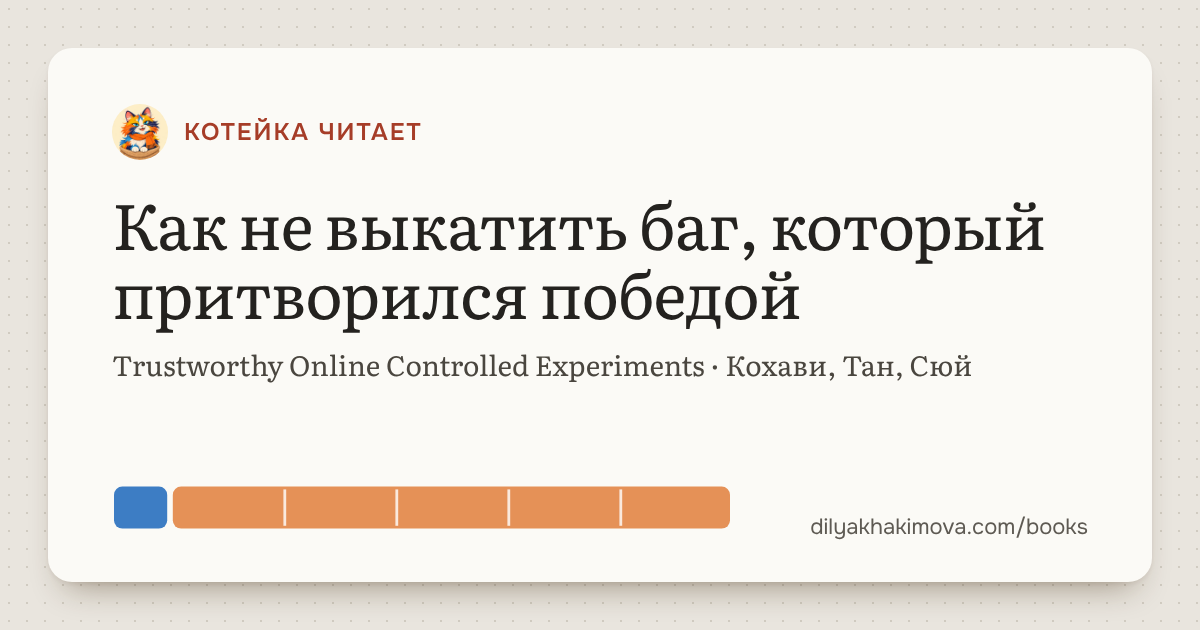
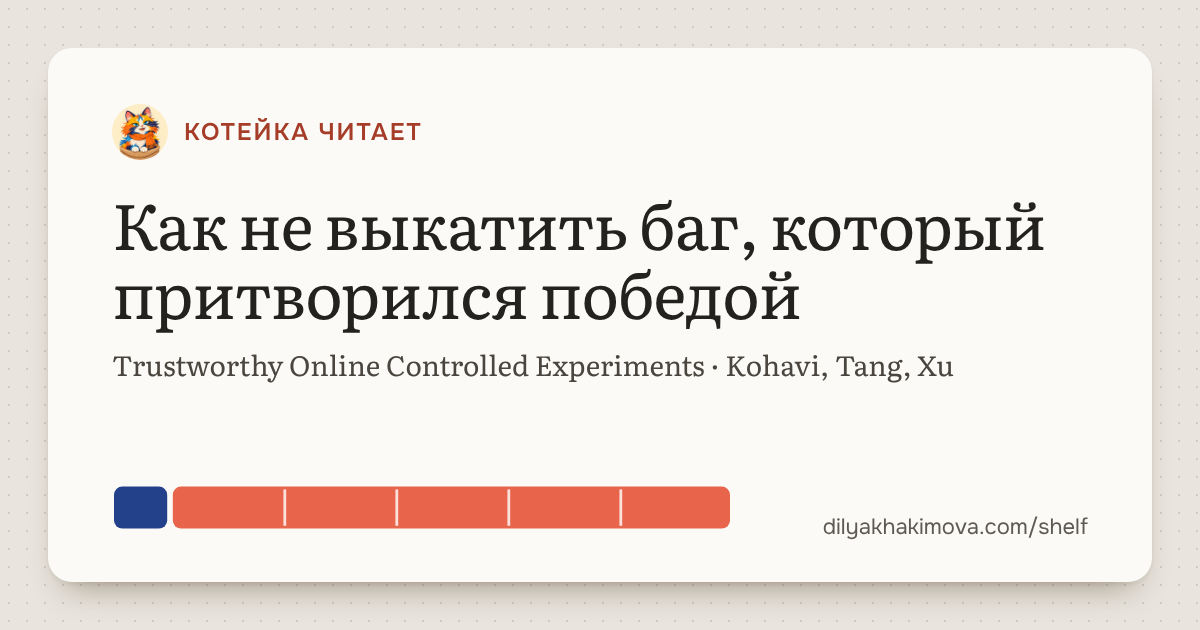
Shelf/Kohavi: drop «Котейка читает» label, English authors with English title, facts list (для кого, уровень, книга, язык, перевод, разбор)
Claude-Session: https://claude.ai/code/session_016bVaCQyfwyCtB86fKvsZ4q

Changed region(s): [[0.0925, 0.754, 0.6167, 0.8444], [0.6783, 0.8143, 0.925, 0.8746], [0.6167, 0.573, 0.8325, 0.6032]]

diff --git a/shelf/kohavi-trustworthy/index.html b/shelf/kohavi-trustworthy/index.html
@@ -5,15 +5,15 @@
 <meta name="viewport" content="width=device-width, initial-scale=1">
 <!-- Рубрика «Котейка читает». Тексты — в i18n/site.js (шапка, футер) и i18n/books.js. Русский текст вписан командой node tools/bake-i18n.js: правьте словари, а не разметку.
      Код ячеек Python — прямо здесь (textarea): из них же собирается ноутбук shelf/notebooks/kohavi-trustworthy.ipynb (python3 tools/build-book-notebook.py). -->
-<title data-i18n="bk.meta.title">Trustworthy Online Controlled Experiments — краткое содержание книги по A/B-тестам · Котейка читает</title>
-<meta name="description" data-i18n-attr="content:bk.meta.desc" content="Краткое содержание книги Кохави, Тан и Сюй «Trustworthy Online Controlled Experiments»: пять главных идей для аналитика — закон Твимена, SRM, подглядывание, A/A-тесты — с живыми играми, кодом на Python и ноутбуком. С какой главы начать.">
+<title data-i18n="bk.meta.title">Trustworthy Online Controlled Experiments — краткое содержание книги по A/B-тестам</title>
+<meta name="description" data-i18n-attr="content:bk.meta.desc" content="Краткое содержание книги «Trustworthy Online Controlled Experiments», Ron Kohavi, Diane Tang, Ya Xu: пять главных идей для аналитика — закон Твимена, SRM, подглядывание, A/A-тесты — с живыми играми, кодом на Python и ноутбуком. С какой главы начать.">
 <link rel="canonical" href="https://dilyakhakimova.com/shelf/kohavi-trustworthy/">
 <meta property="og:type" content="article">
 <meta property="og:locale" content="ru_RU">
 <meta property="og:site_name" content="Диля Хакимова">
 <meta property="og:url" content="https://dilyakhakimova.com/shelf/kohavi-trustworthy/">
-<meta property="og:title" data-i18n-attr="content:bk.meta.title" content="Trustworthy Online Controlled Experiments — краткое содержание книги по A/B-тестам · Котейка читает">
-<meta property="og:description" data-i18n-attr="content:bk.meta.desc" content="Краткое содержание книги Кохави, Тан и Сюй «Trustworthy Online Controlled Experiments»: пять главных идей для аналитика — закон Твимена, SRM, подглядывание, A/A-тесты — с живыми играми, кодом на Python и ноутбуком. С какой главы начать.">
+<meta property="og:title" data-i18n-attr="content:bk.meta.title" content="Trustworthy Online Controlled Experiments — краткое содержание книги по A/B-тестам">
+<meta property="og:description" data-i18n-attr="content:bk.meta.desc" content="Краткое содержание книги «Trustworthy Online Controlled Experiments», Ron Kohavi, Diane Tang, Ya Xu: пять главных идей для аналитика — закон Твимена, SRM, подглядывание, A/A-тесты — с живыми играми, кодом на Python и ноутбуком. С какой главы начать.">
 <meta property="og:image" content="https://dilyakhakimova.com/shelf/og/kohavi-trustworthy.png">
 <meta property="og:image:width" content="1200">
 <meta property="og:image:height" content="630">
@@ -49,17 +49,22 @@ function artFail(img){ img.closest('.art').classList.add('missing'); }
 <script>(function(){var h=document.currentScript.previousElementSibling,b=h.querySelector('.burger');b.addEventListener('click',function(){var o=h.classList.toggle('open');b.setAttribute('aria-expanded',o)})})()</script>
 <script>(function(){var a=document.querySelector('header.top .me');if(!a)return;var m=null;try{m=JSON.parse(localStorage.getItem('dk:me')||'null')}catch(e){}if(!m)return;a.setAttribute('aria-label','Мой кабинет');a.classList.add('in');var i=a.querySelector('.me-i');if(!i)return;if(m.name){i.className='me-l';i.textContent=m.name.trim().charAt(0).toUpperCase()}var s=m.photo||(/^(cat|dog)-\d+$/.test(m.avatar||'')?'/img/avatars/'+m.avatar+'.webp':'');if(s){var g=new Image();g.alt='';g.src=s;g.onload=function(){i.replaceWith(g)}}})()</script>
 
-<main id="main" class="wrap bk" data-share-title="Trustworthy Online Controlled Experiments · Котейка читает"
+<main id="main" class="wrap bk" data-share-title="Trustworthy Online Controlled Experiments"
   data-i18n-attr="data-share-text:bk.share.text;data-s-copied:bk.copied" data-share-text="Скинь коллеге, который запускает A/B-тесты: пять мыслей, на чтение — десять минут." data-s-copied="Ссылка скопирована">
 
 <!-- метка → заголовок-обещание → паспорт → реплика Котейки; справа — своя иллюстрация вместо обложки -->
 <section class="bk-hero">
   <div>
-    <p class="eyebrow bk-label"><img class="ava" src="/ab-basics/img/ava-kot.jpg" alt="" width="32" height="32"><span data-i18n="bk.rubric">Котейка читает</span></p>
     <h1 data-i18n="bk.h1">Как не выкатить баг, который притворился победой</h1>
-    <p class="bk-pass" data-i18n="bk.pass.book"><cite lang="en">Trustworthy Online Controlled Experiments</cite> · Рон Кохави, Диана Тан, Я Сюй · 2020</p>
-    <p class="bk-ru" data-i18n="bk.pass.ru">На русском: «Доверительное A/B-тестирование»</p>
-    <p class="bk-pass2"><span data-i18n="bk.pass.who">Для аналитиков и продактов, которые запускают A/B-тесты</span><span class="chip"><span class="lvl l2" aria-hidden="true"></span><span class="vh" data-i18n="lvl.word">Уровень</span><span data-i18n="lvl.2">Средний</span></span><span data-i18n="bk.pass.read">около 290 страниц, на английском · разбор — 10 минут</span></p>
+    <p class="bk-pass" data-i18n="bk.pass.book"><cite lang="en">Trustworthy Online Controlled Experiments</cite> · Ron Kohavi, Diane Tang, Ya Xu · 2020</p>
+    <dl class="bk-facts">
+      <div><dt data-i18n="bk.f.who">Для кого</dt><dd data-i18n="bk.pass.who">аналитики и продакты, которые запускают A/B‑тесты</dd></div>
+      <div><dt data-i18n="bk.f.lvl">Уровень</dt><dd class="bk-lvl"><span class="lvl l2" aria-hidden="true"></span><span data-i18n="lvl.2">Средний</span></dd></div>
+      <div><dt data-i18n="bk.f.book">Книга</dt><dd data-i18n="bk.pass.read">около 290 страниц</dd></div>
+      <div><dt data-i18n="bk.f.lang">Язык</dt><dd data-i18n="bk.pass.lang">английский</dd></div>
+      <div><dt data-i18n="bk.f.ru">Перевод</dt><dd data-i18n="bk.pass.ru">«Доверительное A/B‑тестирование»</dd></div>
+      <div><dt data-i18n="bk.f.time">Разбор</dt><dd data-i18n="bk.pass.time">10 минут</dd></div>
+    </dl>
     <div class="msg kot"><img class="ava" src="/ab-basics/img/ava-kot.jpg" alt="" width="44" height="44"><div class="bubble"><div class="who" data-i18n="bk.kot.who">Котейка</div><p class="say" data-i18n="bk.kot.say">Прочитал за тебя почти 300 страниц. Вот пять мыслей, которые пригодятся в понедельник, когда откроешь отчёт.</p></div></div>
   </div>
   <figure class="art r43 drawn"><img src="/shelf/img/kohavi-main.jpg" width="1600" height="1200" data-i18n-attr="alt:bk.art.alt" alt="Котейка за столиком кафе разглядывает зелёный отчёт через лупу, рядом Алиса и Боб" onerror="artFail(this)"><figcaption class="ph" data-i18n="bk.art.ph">Здесь будет иллюстрация: Котейка с лупой проверяет зелёный отчёт</figcaption></figure>

diff --git a/shelf/index.html b/shelf/index.html
@@ -5,14 +5,14 @@
 <meta name="viewport" content="width=device-width, initial-scale=1">
 <!-- Страница собрана командой node tools/bake-i18n.js (tools/build-site.js): правьте данные, а не этот файл. -->
 <title>Полка Котейки — книги и статьи для аналитика</title>
-<meta name="description" content="Книжная полка аналитика: разборы книг «Котейка читает» и статьи об A/B-тестах. Наведи на корешок — увидишь, о чём книга.">
+<meta name="description" content="Книжная полка аналитика: разборы книг и статьи об A/B-тестах. Наведи на корешок — увидишь, о чём книга.">
 <link rel="canonical" href="https://dilyakhakimova.com/shelf/">
 <meta property="og:type" content="website">
 <meta property="og:locale" content="ru_RU">
 <meta property="og:site_name" content="Диля Хакимова">
 <meta property="og:url" content="https://dilyakhakimova.com/shelf/">
 <meta property="og:title" content="Полка Котейки — книги и статьи для аналитика">
-<meta property="og:description" content="Книжная полка аналитика: разборы книг «Котейка читает» и статьи об A/B-тестах. Наведи на корешок — увидишь, о чём книга.">
+<meta property="og:description" content="Книжная полка аналитика: разборы книг и статьи об A/B-тестах. Наведи на корешок — увидишь, о чём книга.">
 <meta property="og:image" content="https://dilyakhakimova.com/shelf/img/kotejka-reads-cover.jpg">
 <meta name="twitter:card" content="summary_large_image">
 <link rel="icon" href="/favicon.ico" sizes="any">
@@ -62,7 +62,7 @@
        от 700 px; уже — прежняя полка из CSS (корешки на картинке стали бы нечитаемыми) -->
   <div class="bookshelf scene" role="region" aria-label="Книжная полка" tabindex="0">
     <img class="scene-art" src="/shelf/img/shelf-scene.jpg" srcset="/shelf/img/shelf-scene-800.jpg 800w, /shelf/img/shelf-scene.jpg 1600w" sizes="(max-width:1120px) 100vw, 1056px" width="1600" height="850" alt="" decoding="async">
-    <ul class="books" role="list"><li class="book live" data-topic="A/B" data-slug="kohavi-trustworthy"><a class="spine" href="/shelf/kohavi-trustworthy/" style="--h:232px; --w:64px; --hn:232; --wn:64; --c:#3E4148" aria-label="Trustworthy Online Controlled Experiments («Доверительное A/B-тестирование»), Рон Кохави, Диана Тан, Я Сюй — разбор «Котейка читает»" aria-describedby="bc-kohavi-trustworthy"><span class="b-t" lang="en">Trustworthy</span><span class="b-a">Кохави</span></a><span class="b-card" role="tooltip" id="bc-kohavi-trustworthy" data-isbn="9781108724265" data-cover-alt="Обложка: Trustworthy Online Controlled Experiments"><span class="b-txt"><span class="b-topic">книга · A/B</span><span class="b-orig" lang="en"><b>Trustworthy Online Controlled Experiments</b><span class="b-by">Ron Kohavi, Diane Tang, Ya Xu&nbsp;· 2020</span></span><span class="b-tr">Доверительное A/B-тестирование&nbsp;· 2021</span><span class="b-about">Как устроены онлайн-эксперименты в больших компаниях и почему отчёту нельзя верить на слово.</span><span class="b-tap" aria-hidden="true">Нажми ещё раз, чтобы открыть разбор</span></span></span></li>
+    <ul class="books" role="list"><li class="book live" data-topic="A/B" data-slug="kohavi-trustworthy"><a class="spine" href="/shelf/kohavi-trustworthy/" style="--h:232px; --w:64px; --hn:232; --wn:64; --c:#3E4148" aria-label="Trustworthy Online Controlled Experiments («Доверительное A/B-тестирование»), Ron Kohavi, Diane Tang, Ya Xu — разбор книги" aria-describedby="bc-kohavi-trustworthy"><span class="b-t" lang="en">Trustworthy</span><span class="b-a">Kohavi</span></a><span class="b-card" role="tooltip" id="bc-kohavi-trustworthy" data-isbn="9781108724265" data-cover-alt="Обложка: Trustworthy Online Controlled Experiments"><span class="b-txt"><span class="b-topic">книга · A/B</span><span class="b-orig" lang="en"><b>Trustworthy Online Controlled Experiments</b><span class="b-by">Ron Kohavi, Diane Tang, Ya Xu&nbsp;· 2020</span></span><span class="b-tr">Доверительное A/B-тестирование&nbsp;· 2021</span><span class="b-about">Как устроены онлайн-эксперименты в больших компаниях и почему отчёту нельзя верить на слово.</span><span class="b-tap" aria-hidden="true">Нажми ещё раз, чтобы открыть разбор</span></span></span></li>
     </ul>
     <div class="board" aria-hidden="true"></div>
   </div>

diff --git a/tools/build-site.js b/tools/build-site.js
@@ -119,11 +119,11 @@ function shelf(){
       : `<span class="b-orig"><b>${esc(b.title_ru)}</b><span class="b-by">${by(b.author, b.year)}</span></span>`;
     const card = `<span class="b-card" role="tooltip" id="bc-${b.slug}"${isbn.length ? ` data-isbn="${isbn.join(' ')}" data-cover-alt="Обложка: ${esc(t)}"` : ''}><span class="b-txt"><span class="b-topic">книга · ${b.topic}</span>${orig}${b.about ? `<span class="b-about">${esc(nb(b.about))}</span>` : ''}${b.review ? '<span class="b-tap" aria-hidden="true">Нажми ещё раз, чтобы открыть разбор</span>' : ''}</span></span>`;
     // на узком корешке — короткое название (title_short), полное — в подсказке
-    const inner = `<span class="b-t"${lg}>${esc(b.title_short || t)}</span><span class="b-a">${esc(b.author.split(',')[0].trim().split(' ').pop())}</span>`;
+    const inner = `<span class="b-t"${lg}>${esc(b.title_short || t)}</span><span class="b-a">${esc(((b.title_en && b.author_en) || b.author).split(',')[0].trim().split(' ').pop())}</span>`;
     const st = `style="--h:${height}px; --w:${width}px; --hn:${height}; --wn:${width}; --c:${spineColor(b.slug)}"`;  // --hn/--wn — для полки-картинки (масштаб от ширины)
-    const label = `${esc(t)}${b.title_en && b.title_ru ? ` («${esc(b.title_ru)}»)` : ''}, ${esc(b.author)}`;
+    const label = `${esc(t)}${b.title_en && b.title_ru ? ` («${esc(b.title_ru)}»)` : ''}, ${esc((b.title_en && b.author_en) || b.author)}`;
     return b.review
-      ? `<li class="book live" data-topic="${b.topic}" data-slug="${b.slug}"><a class="spine" href="${b.review}" ${st} aria-label="${label} — разбор «Котейка читает»" aria-describedby="bc-${b.slug}">${inner}</a>${card}</li>`
+      ? `<li class="book live" data-topic="${b.topic}" data-slug="${b.slug}"><a class="spine" href="${b.review}" ${st} aria-label="${label} — разбор книги" aria-describedby="bc-${b.slug}">${inner}</a>${card}</li>`
       : `<li class="book" data-topic="${b.topic}" data-slug="${b.slug}"><button class="spine" type="button" ${st} aria-label="${label}" aria-describedby="bc-${b.slug}" aria-expanded="false">${inner}</button>${card}</li>`;
   };
   // список разборов под полкой (просьба Дили, 22.11): группы «Книги» → «Статьи», пустая группа не выводится;
@@ -171,7 +171,7 @@ function shelf(){
   const SHOW_MINE = false;
   const mine = SHOW_MINE ? (S.mine || []).filter(m => m.url).concat((S.mine || []).filter(m => !m.url)) : [];
   const html = head({title: 'Полка Котейки — книги и статьи для аналитика',
-    desc: 'Книжная полка аналитика: разборы книг «Котейка читает» и статьи об A/B-тестах. Наведи на корешок — увидишь, о чём книга.',
+    desc: 'Книжная полка аналитика: разборы книг и статьи об A/B-тестах. Наведи на корешок — увидишь, о чём книга.',
     url: '/shelf/', css: ['/site/site.css'], og: '/shelf/img/kotejka-reads-cover.jpg'}) + chrome.header('shelf', true) + `
 
 <main id="main" class="wrap shelf-page">

diff --git a/i18n/books.js b/i18n/books.js
@@ -39,14 +39,22 @@ I18N.ru = Object.assign(I18N.ru || {}, {
   'st.rit.d': 'Кризис воспроизводимости, p-hacking и публикация только «значимого» — и что из этого знакомо любой команде экспериментов.',
 
   /* ---------- разбор Кохави ---------- */
-  'bk.meta.title': 'Trustworthy Online Controlled Experiments — краткое содержание книги по A/B-тестам · Котейка читает',
-  'bk.meta.desc': 'Краткое содержание книги Кохави, Тан и Сюй «Trustworthy Online Controlled Experiments»: пять главных идей для аналитика — закон Твимена, SRM, подглядывание, A/A-тесты — с живыми играми, кодом на Python и ноутбуком. С какой главы начать.',
+  'bk.meta.title': 'Trustworthy Online Controlled Experiments — краткое содержание книги по A/B-тестам',
+  'bk.meta.desc': 'Краткое содержание книги «Trustworthy Online Controlled Experiments», Ron Kohavi, Diane Tang, Ya Xu: пять главных идей для аналитика — закон Твимена, SRM, подглядывание, A/A-тесты — с живыми играми, кодом на Python и ноутбуком. С какой главы начать.',
   'bk.crumb': 'Trustworthy Online Controlled Experiments',
   'bk.h1': 'Как не выкатить баг, который притворился победой',
-  'bk.pass.book': '<cite lang="en">Trustworthy Online Controlled Experiments</cite>' + D + ' Рон Кохави, Диана Тан, Я Сюй' + D + ' 2020',
-  'bk.pass.ru': 'На русском: «Доверительное A/B-тестирование»',
-  'bk.pass.who': 'Для аналитиков и продактов, которые запускают A/B-тесты',
-  'bk.pass.read': 'около 290 страниц, на английском' + D + ' разбор — 10 минут',
+  'bk.pass.book': '<cite lang="en">Trustworthy Online Controlled Experiments</cite>' + D + ' Ron Kohavi, Diane Tang, Ya Xu' + D + ' 2020',
+  'bk.pass.ru': '«Доверительное A/B‑тестирование»',
+  'bk.pass.who': 'аналитики и продакты, которые запускают A/B‑тесты',
+  'bk.pass.read': 'около 290 страниц',
+  'bk.pass.lang': 'английский',
+  'bk.pass.time': '10 минут',
+  'bk.f.who': 'Для кого',
+  'bk.f.lvl': 'Уровень',
+  'bk.f.book': 'Книга',
+  'bk.f.lang': 'Язык',
+  'bk.f.ru': 'Перевод',
+  'bk.f.time': 'Разбор',
   'bk.kot.who': 'Котейка',
   'bk.kot.say': 'Прочитал за тебя почти 300 страниц. Вот пять мыслей, которые пригодятся в понедельник, когда откроешь отчёт.',
   'bk.art.alt': 'Котейка за столиком кафе разглядывает зелёный отчёт через лупу, рядом Алиса и Боб',

diff --git a/signal/07-clt.html b/signal/07-clt.html
@@ -180,7 +180,7 @@
       <p class="read">Словами: складываются дисперсии, не сигмы. Поэтому сумма расплывается как √n, а среднее сжимается как 1/√n.</p>
     </div>
   </div>
-  <p>Когда n «достаточно»? Чем сильнее перекос исходных значений, асимметрия s,, тем дольше ждать. Асимметрия среднего падает как s/√n, отсюда правило пальца: <span class="num">n ≳ 100 · s²</span> (у Кохави и соавторов правило строже — 355 · s²). У кубика s = 0, хватает нескольких бросков. У ожидания курьера, это экспонента, s = 2 — нужно около 400. У наших чеков с банкетами s ≈ 8.2 — нужно около 6700 заказов.</p>
+  <p>Когда n «достаточно»? Чем сильнее перекос исходных значений, асимметрия s, тем дольше ждать. Асимметрия среднего падает как s/√n, отсюда правило пальца: <span class="num">n ≳ 100 · s²</span> (у Кохави и соавторов правило строже — 355 · s²). У кубика s = 0, хватает нескольких бросков. У ожидания курьера, это экспонента, s = 2 — нужно около 400. У наших чеков с банкетами s ≈ 8.2 — нужно около 6700 заказов.</p>
   <aside class="scary">
     <span class="scary-tag">Страшное слово</span>
     <p>То, что среднее многих независимых значений с конечной σ ложится колоколом, называют <b class="term">центральной предельной теоремой</b>; на собеседовании — central limit theorem, CLT.</p>

diff --git a/tools/related.js b/tools/related.js
@@ -18,7 +18,7 @@ function index(){
   const terms = J('terms/terms.json').terms.map(t => ({kind: 'term', slug: t.slug, published: !!t.published, topic: t.topic, href: `/terms/${t.slug}/`, title: TT[t.slug].name, line: TT[t.slug].card}));
   const chapters = J('courses/courses.json').chapters.map(c => Object.assign({kind: 'chapter', published: true, line: `«${c.course}», ${c.unit}`}, c));
   const shelf = J('shelf/shelf.json');
-  const books = shelf.books.filter(b => b.review).map(b => ({kind: 'book', slug: b.slug, published: !!b.published, topic: b.topic, href: b.review, title: `«${b.title_en || b.title_ru}»`, line: `${b.author} — разбор «Котейка читает»`}));
+  const books = shelf.books.filter(b => b.review).map(b => ({kind: 'book', slug: b.slug, published: !!b.published, topic: b.topic, href: b.review, title: `«${b.title_en || b.title_ru}»`, line: `${(b.title_en && b.author_en) || b.author} — разбор книги`}));
   return {toys, terms, chapters, books, articles: shelf.articles, shelfBooks: shelf.books};
 }
 

diff --git a/tools/og-books.js b/tools/og-books.js
@@ -31,7 +31,7 @@ p{font:400 28px/1.35 Literata, serif; color:#4A463F; margin:0}
   const b = await chromium.launch(), p = await b.newPage({viewport: {width: 1200, height: 630}});
   fs.mkdirSync(path.join(ROOT, 'shelf/og'), {recursive: true});
   const shots = {
-    'kohavi-trustworthy': page('Как не выкатить баг, который притворился победой', 'Trustworthy Online Controlled Experiments · Кохави, Тан, Сюй', `<div class="bar">${bar}</div>`),
+    'kohavi-trustworthy': page('Как не выкатить баг, который притворился победой', 'Trustworthy Online Controlled Experiments · Kohavi, Tang, Xu', `<div class="bar">${bar}</div>`),
   };
   for (const [k, html] of Object.entries(shots)){
     await p.setContent(html); await p.evaluate(() => document.fonts.ready);

diff --git a/shelf/books.css b/shelf/books.css
@@ -177,3 +177,11 @@
   .bk-share .btn{flex:1 1 auto; justify-content:center}
   .crumbs li:last-child span{display:-webkit-box; -webkit-line-clamp:1; -webkit-box-orient:vertical; overflow:hidden}
 }
+
+/* паспорт книги: подпись слева, значение справа */
+.bk-facts{display:grid; gap:var(--s-2); margin:var(--s-3) 0 var(--s-5); max-width:40.5rem}
+.bk-facts > div{display:grid; grid-template-columns:7.5rem 1fr; gap:var(--s-3); align-items:baseline}
+.bk-facts dt{font-size:var(--fs-s); color:var(--text-3, var(--text-2)); font-weight:var(--fw-medium)}
+.bk-facts dd{margin:0; font-size:var(--fs-m, 1rem); color:var(--text-1)}
+.bk-facts .bk-lvl{display:flex; align-items:center; gap:var(--s-2)}
+@media (max-width:480px){.bk-facts > div{grid-template-columns:1fr; gap:2px}}

diff --git a/i18n/home.js b/i18n/home.js
@@ -265,7 +265,7 @@ I18N.ru = {
   'read.a1.meta': 'Хабр · 26 июня 2025',
   'read.a1.d': 'С симуляциями, которые можно запустить самому. Основной текст — для всех, сложные места — врезками для продвинутых.',
   'read.a1.toy': 'Игра к статье: сто экспериментов →',
-  'read.tg': 'Разборы книг «Котейка читает» и статьи собраны на «Полке».',
+  'read.tg': 'Разборы книг и статьи собраны на «Полке».',
   'read.all': 'Вся полка →',
 
   'about.title': 'Кто это придумал',
